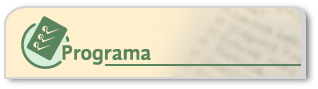
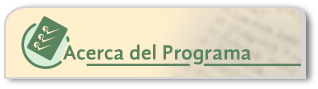
Ajustes en plantillas de programa

diff --git a/css/sass/_page.scss b/css/sass/_page.scss
@@ -7,7 +7,7 @@
 	vertical-align: top;
 	display: inline-block;
 	margin: 0 0 3rem;
-	padding: 0 1.5rem;
+	padding: 0;
 
 	@media (max-width: $tablet-width ) {
 		width: 100%;
@@ -24,4 +24,32 @@
 	.Page-titulo {
 
 	}
+
+	.Acordeon {
+		padding: 1rem;
+		background: #fff;
+
+		.panel {
+			border: none;
+			background: none;
+			box-shadow: none;
+
+			.panel-heading {
+				border: none;
+				background: none;
+			}
+
+			.panel-body {
+				border: none;
+				border-left: #757575 2px solid;
+				border-bottom: #757575 2px solid;
+				@include redondea(0 0 0 30px);
+				padding-top: 0;
+				margin-left: 10px;
+			}
+		}
+
+	}
+
 }
+

diff --git a/page-acerca-programa.php b/page-acerca-programa.php
@@ -1,0 +1,54 @@
+<?php
+/**
+ * Template Name: Acerca del programa
+ */
+
+get_header(); ?>
+
+    <?php while ( have_posts() ) : the_post(); ?>
+       
+        <article class="Page u-contenido">  
+            
+            <!-- Título del artículo -->
+            <img src="<?php bloginfo('template_directory'); ?>/images/titulo-acercade.png" alt="">
+            <!-- Contenido -->
+            <?php the_content(); ?> 
+            <!-- Acordeón -->
+            <div class="panel-group Acordeon" id="accordion" role="tablist" aria-multiselectable="true">
+                
+                <?php if( have_rows('bloquesAcordeon') ): ?>
+                    <?php $bloques = 1; ?> 
+                    <?php while( have_rows('bloquesAcordeon') ): the_row(); ?>
+                        <?php  $bloques++ ?>
+                        <div class="panel panel-default">
+                            <div class="panel-heading" role="tab" id="headin<?php print $bloques; ?>">
+                                <h4 class="panel-title">
+                                    <a class="collapsed" role="button" data-toggle="collapse" data-parent="#accordion" href="#collapse<?php print $bloques; ?>" aria-expanded="false" aria-controls="collapse<?php print $bloques; ?>">
+                                            <i class="fa fa-circle-o"></i> <?php the_sub_field('titulo'); ?>
+                                    </a>
+                                </h4>
+                            </div>
+                            <div id="collapse<?php print $bloques; ?>" class="panel-collapse collapse" role="tabpanel" aria-labelledby="heading<?php print $bloques; ?>">
+                                <div class="panel-body">
+                                    <?php the_sub_field('contenido'); ?>
+                                    <a class="collapsed" role="button" data-toggle="collapse" data-parent="#accordion" href="#collapse<?php print $bloques; ?>" aria-expanded="false" aria-controls="collapse<?php print $bloques; ?>">
+                                        Cerrar
+                                    </a>
+                                </div>
+                                
+                            </div>
+                        </div>
+
+                    <?php endwhile; ?>
+                <?php endif; ?>
+
+            </div>
+
+
+            <!-- Compartir en redes sociales -->
+            <?php anliSocialShare(); ?>
+       
+        </article>
+    <?php endwhile; // end of the loop. ?>
+
+<?php get_footer(); ?>

diff --git a/sidebar.php b/sidebar.php
@@ -36,8 +36,13 @@
 			</div>
 		</div>
 	<?php } ?>
+	
+	<?php // Obtengo de que programa o dirección depende la página
+			global $post; 
+			$template_name = get_post_meta( $post->post_parent, '_wp_page_template', true ); 
+	?>
 
-	<?php if(is_page_template('page-programa.php')) { ?>
+	<?php if(is_page_template('page-programa.php') || $template_name == 'page-programa.php') { ?>
 		<!-- botón/ficha Programa -->
 		<figure class="ProgramaBtnSidebar">
 			<a href="<?php the_permalink() ?>programa/"><img class="" src="<?php bloginfo('template_directory'); ?>/images/btn_programa.png" alt=""></a>
@@ -79,7 +84,7 @@
 		</figure>			
 	<?php } ?>
 	
-	<?php if(is_page_template('page-direccion.php')) { ?>
+	<?php if(is_page_template('page-direccion.php') || $template_name == 'page-direccion.php') { ?>
 		<!-- botón/ficha Programa -->
 		<figure class="ProgramaBtnSidebar">
 			<a href="<?php the_permalink() ?>quienes-somos/"><img class="" src="<?php bloginfo('template_directory'); ?>/images/btn_quienes_somos.png" alt=""></a>
